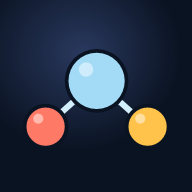
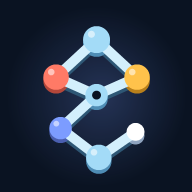
Novo ícone: rede molecular com as cores do app

diff --git a/sw.js b/sw.js
@@ -1,6 +1,6 @@
 /* Service worker do app. Guarda tudo na instalação: depois da primeira
    visita, o app abre inteiro sem internet. */
-const CACHE = 'moleculas-v1';
+const CACHE = 'moleculas-v2';
 const ARQUIVOS = [
   './',
   './index.html',
